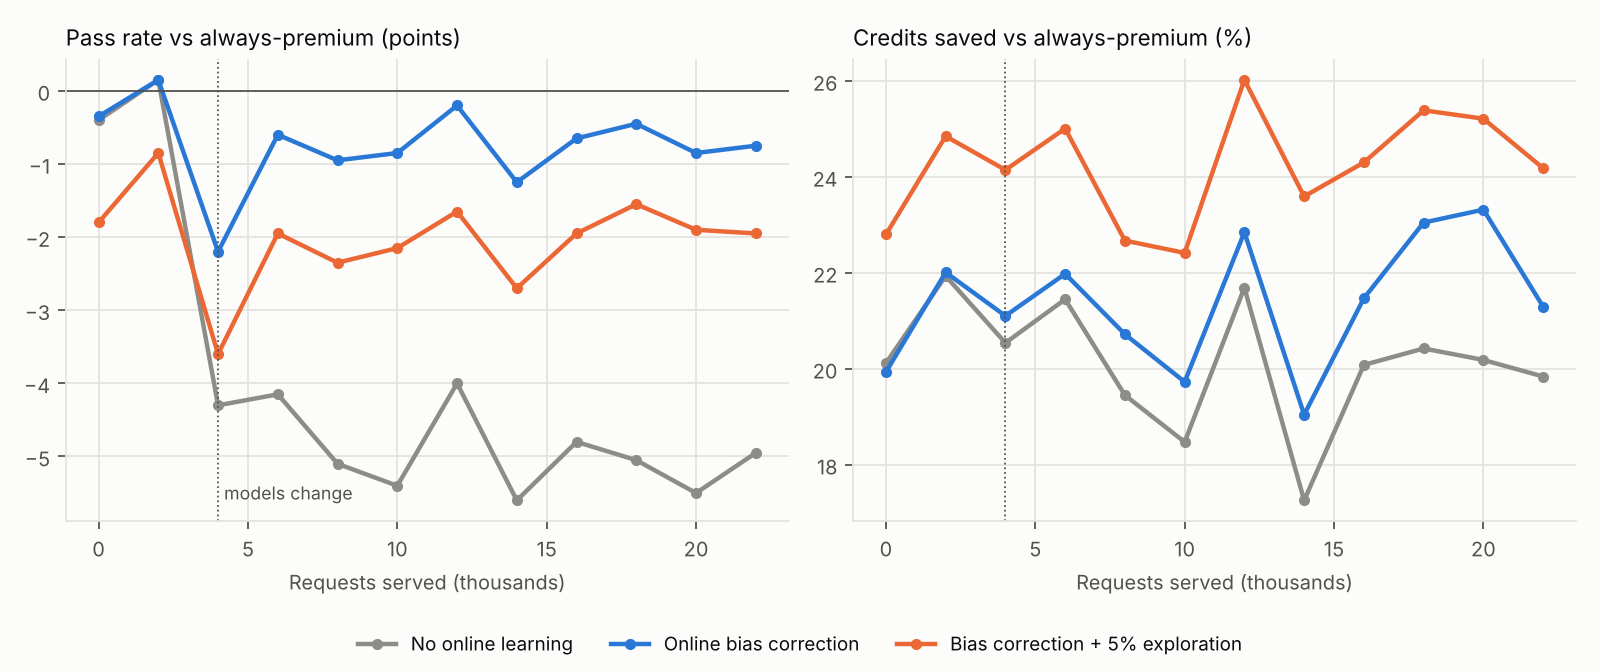
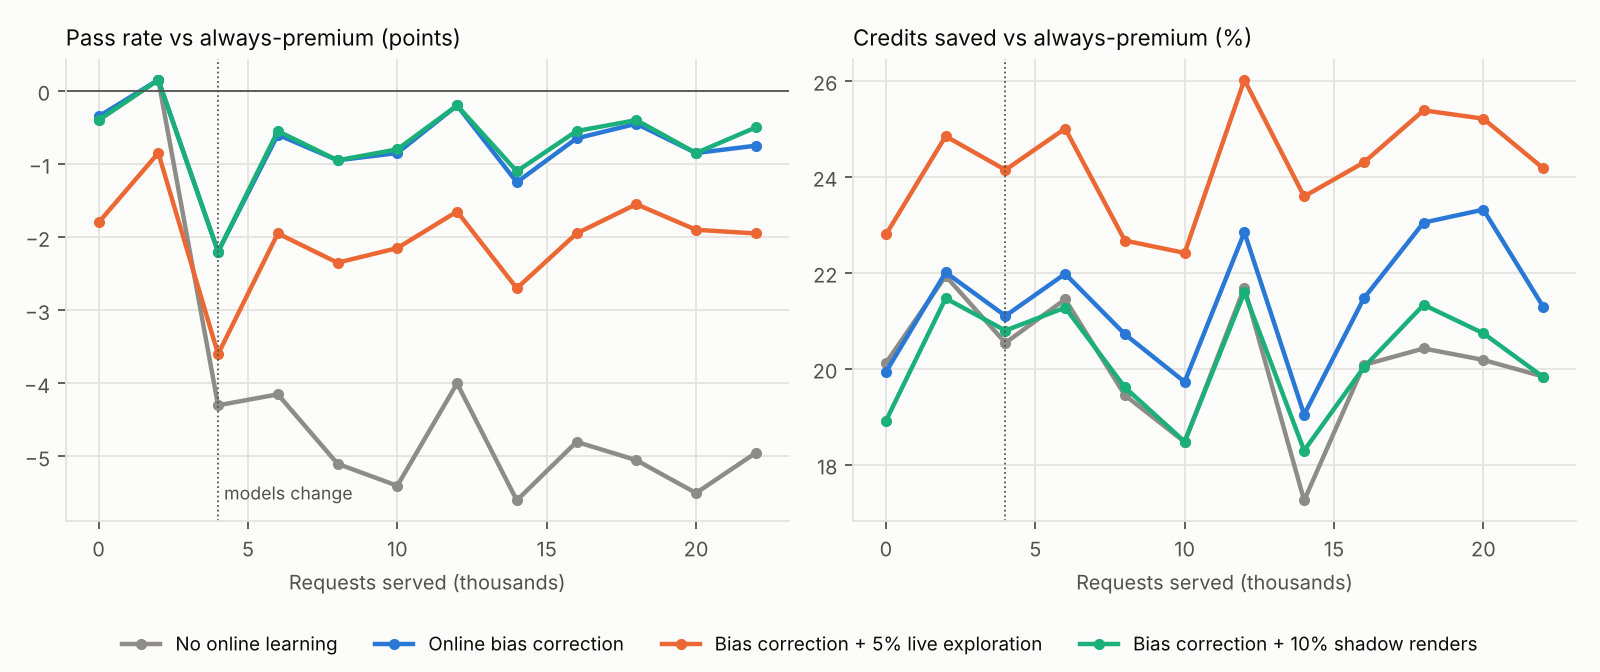
Add shadow exploration
With ROUTER_SHADOW_RATE set, a fraction of /v1/route responses name a
cheaper shadow model for the client to render on the side; the customer
always gets the router's pick. Shadow outcomes go through /v1/feedback
with shadow=true, update the online bias, and are exported for retraining
with their own propensity. Feedback is now keyed by (decision, model);
schema.sql migrates older databases under an advisory lock.

Drift replay: same quality as bias correction alone (-0.8 pts vs -0.9),
no quality cost from exploring, and the improved cheap model reached 16%
of traffic vs 8% with live exploration. Shadow renders cost 17.5 credits
per request, which the upgrade had not yet paid back in this run.

diff --git a/router/service.py b/router/service.py
@@ -43,6 +43,9 @@ CFG = {
     "tau_file": os.environ.get("ROUTER_TAU_FILE", "models/tau.json"),
     "epsilon": float(os.environ.get("ROUTER_EPSILON", "0")),
     "explore": os.environ.get("ROUTER_EXPLORE", "cheaper"),  # cheaper | uniform
+    # shadow exploration: ask the client to also render a cheaper model on this fraction of requests.
+    # The customer always gets the router's pick; the shadow render only feeds the router's learning.
+    "shadow_rate": float(os.environ.get("ROUTER_SHADOW_RATE", "0")),
     "online_bias": os.environ.get("ROUTER_ONLINE_BIAS", "1") == "1",
     "bias_lr": float(os.environ.get("ROUTER_BIAS_LR", "0.02")),
     "cost_alpha": float(os.environ.get("ROUTER_COST_ALPHA", "0.1")),
@@ -73,7 +76,8 @@ class FeedbackIn(BaseModel):
     decision_id: uuid.UUID
     passed: bool
     credits_charged: float | None = None
-    model: str | None = None  # defaults to the routed model
+    model: str | None = None  # defaults to the routed model; set it to report a shadow render
+    shadow: bool = False
 
 
 class State:
@@ -159,7 +163,8 @@ async def refresh_tables():
 async def decision_writer():
     """Batch decision rows into one multi-row INSERT per ~20 ms instead of one transaction per request."""
     sql = ("INSERT INTO decisions (id, tenant, model_version, request, chosen, p_pass, est_credits, propensity, "
-           "explored, reason, scores) VALUES (%s,%s,%s,%s,%s,%s,%s,%s,%s,%s,%s) ON CONFLICT DO NOTHING")
+           "explored, reason, scores, shadow_model, shadow_propensity) VALUES (%s,%s,%s,%s,%s,%s,%s,%s,%s,%s,%s,%s,%s) "
+           "ON CONFLICT DO NOTHING")
     while True:
         rows = [await S.log_q.get()]
         await asyncio.sleep(0.02)
@@ -181,7 +186,9 @@ async def lifespan(app: FastAPI):
     S.pg = AsyncConnectionPool(CFG["pg"], min_size=2, max_size=8, open=False)
     await S.pg.open()
     async with S.pg.connection() as c:
-        await c.execute(open(os.path.join(os.path.dirname(__file__), "schema.sql")).read())
+        async with c.transaction():  # workers start together; serialise the DDL
+            await c.execute("SELECT pg_advisory_xact_lock(7231)")
+            await c.execute(open(os.path.join(os.path.dirname(__file__), "schema.sql")).read())
     S.r = aioredis.from_url(CFG["redis"])
     net, version, tau = await load_active_model()
     S.tau = tau
@@ -260,21 +267,30 @@ async def route(body: RouteIn) -> dict:
                 if m.name != c.model:
                     chosen = type(c)(m.name, p, cr, "explore")
                     explored, propensity = True, eps / k
+    shadow, shadow_prop = None, None
+    if CFG["shadow_rate"] > 0 and not explored:
+        pool = [x for x in cands if x[2] < chosen.credits]
+        if pool and random.random() < CFG["shadow_rate"]:
+            m, p, cr = random.choice(pool)
+            shadow = {"model": m.name, "p_pass": round(p, 4), "est_credits": round(cr, 2)}
+            shadow_prop = CFG["shadow_rate"] / len(pool)
     did = uuid.uuid4()
     scores = {x[0].name: {"p": round(x[1], 5), "c": round(x[2], 3)} for x in cands}
     out = {
         "decision_id": str(did), "model": chosen.model, "p_pass": round(chosen.p_pass, 4),
         "est_credits": round(chosen.credits, 2), "reason": chosen.reason, "explored": explored,
         "escalate_to": escalate_to if not explored else prem.name if body.mode == "cascade" else None,
-        "model_version": version, "cache_hit": hit,
+        "model_version": version, "cache_hit": hit, "shadow": shadow,
         "alternatives": sorted(({"model": x[0].name, "p_pass": round(x[1], 4), "est_credits": round(x[2], 2)}
                                 for x in cands), key=lambda a: a["est_credits"]),
     }
     # remember what we predicted so /feedback can update online stats without touching Postgres
-    await S.r.set(f"{NS}:dec:{did}", json.dumps([chosen.model, chosen.p_pass, body.resolution, body.seconds]), ex=86400 * 3)
+    await S.r.set(f"{NS}:dec:{did}", json.dumps({"m": chosen.model, "p": {k: v["p"] for k, v in scores.items()},
+                                                 "res": body.resolution, "s": body.seconds}), ex=86400 * 3)
     if CFG["log_decisions"]:
         S.log_q.put_nowait((did, body.tenant, version, json.dumps(body.model_dump()), chosen.model, chosen.p_pass,
-                            chosen.credits, propensity, explored, chosen.reason, json.dumps(scores)))
+                            chosen.credits, propensity, explored, chosen.reason, json.dumps(scores),
+                            shadow and shadow["model"], shadow_prop))
     S.counters["route"] += 1
     S.counters["cache_hit"] += hit
     S.counters["explore"] += explored
@@ -295,11 +311,15 @@ async def feedback(fb: FeedbackIn):
     raw = await S.r.get(f"{NS}:dec:{fb.decision_id}")
     if raw is None:
         raise HTTPException(404, "unknown or expired decision_id")
-    model, p, res, secs = json.loads(raw)
-    model = fb.model or model
+    dec = json.loads(raw)
+    model = fb.model or dec["m"]
+    if model not in dec["p"]:
+        raise HTTPException(422, f"{model} was not eligible for this decision")
+    p, res, secs = dec["p"][model], dec["res"], dec["s"]
     async with S.pg.connection() as c:
-        cur = await c.execute("INSERT INTO feedback (decision_id, model, passed, credits_charged) VALUES (%s,%s,%s,%s) "
-                              "ON CONFLICT DO NOTHING", (fb.decision_id, model, fb.passed, fb.credits_charged))
+        cur = await c.execute("INSERT INTO feedback (decision_id, model, passed, credits_charged, shadow) "
+                              "VALUES (%s,%s,%s,%s,%s) ON CONFLICT DO NOTHING",
+                              (fb.decision_id, model, fb.passed, fb.credits_charged, fb.shadow))
         first = cur.rowcount == 1
     if first:  # idempotent: a retried feedback call does not double-update online state
         y = 1.0 if fb.passed else 0.0

diff --git a/bench/drift.py b/bench/drift.py
@@ -72,9 +72,17 @@ async def run(url, arm, n, drift_at, retrain_at, conc, seed, window):
                 spec = BY_NAME[m]
                 charged = spec.credits(req.resolution, req.seconds) * TRUE_COST.get(m, 1.0)
                 await c.post("/v1/feedback", json={"decision_id": d["decision_id"], "passed": bool(ok), "credits_charged": charged})
+                shadow_charged = 0.0
+                if d.get("shadow"):  # extra render for learning only; the customer still gets `m`
+                    sm = d["shadow"]["model"]
+                    sok = judge(quality(sm, demand, diff, noise, drift), np.random.default_rng(s))[req.quality]
+                    shadow_charged = BY_NAME[sm].credits(req.resolution, req.seconds) * TRUE_COST.get(sm, 1.0)
+                    await c.post("/v1/feedback", json={"decision_id": d["decision_id"], "passed": bool(sok), "model": sm,
+                                                       "shadow": True, "credits_charged": shadow_charged})
                 prem = premium_default(req.task, req.eligible(), req.resolution, req.seconds)
                 pok = judge(quality(prem.name, demand, diff, noise, drift), np.random.default_rng(s))[req.quality]
-                results[i] = {"i": i, "model": m, "ok": ok, "credits": charged, "explored": d["explored"],
+                results[i] = {"i": i, "model": m, "ok": ok, "credits": charged + shadow_charged, "shadow_credits": shadow_charged,
+                              "explored": d["explored"],
                               "version": d["model_version"], "prem_ok": pok,
                               "prem_credits": prem.credits(req.resolution, req.seconds),
                               "regressed": m == "gpt-image-2", "upgraded": m == "flux-schnell", "repriced": m == "kling-3.0"}
@@ -96,6 +104,7 @@ async def run(url, arm, n, drift_at, retrain_at, conc, seed, window):
                      "prem_pass": float(np.mean([r["prem_ok"] for r in chunk])),
                      "credits_per_req": float(np.mean([r["credits"] for r in chunk])),
                      "prem_credits_per_req": float(np.mean([r["prem_credits"] for r in chunk])),
+                     "shadow_credits_per_req": float(np.mean([r["shadow_credits"] for r in chunk])),
                      "regressed_share": float(np.mean([r["regressed"] for r in chunk])),
                      "upgraded_share": float(np.mean([r["upgraded"] for r in chunk])),
                      "repriced_share": float(np.mean([r["repriced"] for r in chunk])),

diff --git a/tests/test_service.py b/tests/test_service.py
@@ -67,3 +67,19 @@ def test_feedback_is_idempotent_and_moves_bias(client):
 
 def test_unknown_feedback_404(client):
     assert client.post("/v1/feedback", json={"decision_id": str(uuid.uuid4()), "passed": True}).status_code == 404
+
+
+def test_shadow_feedback_is_recorded_separately(client):
+    d = client.post("/v1/route", json=dict(BODY, prompt="a glass chess set, macro shot", quality="premium")).json()
+    cheaper = [a["model"] for a in d["alternatives"] if a["est_credits"] < d["est_credits"]]
+    assert cheaper, "premium-bar request should have cheaper alternatives"
+    a = client.post("/v1/feedback", json={"decision_id": d["decision_id"], "passed": True}).json()
+    b = client.post("/v1/feedback", json={"decision_id": d["decision_id"], "passed": False,
+                                          "model": cheaper[0], "shadow": True}).json()
+    assert a["applied"] and b["applied"]
+
+
+def test_feedback_for_ineligible_model_is_rejected(client):
+    d = client.post("/v1/route", json=dict(BODY, resolution="640px")).json()
+    r = client.post("/v1/feedback", json={"decision_id": d["decision_id"], "passed": True, "model": "nano-banana-pro"})
+    assert r.status_code == 422

diff --git a/bench/plot.py b/bench/plot.py
@@ -50,7 +50,8 @@ def frontier(rep, out):
 
 def drift(runs, out):
     labels = {"static": ("No online learning", MUTED), "bias": ("Online bias correction", S1),
-              "bias_explore_retrain": ("Bias correction + 5% exploration", S2)}
+              "bias_explore_retrain": ("Bias correction + 5% live exploration", S2),
+              "bias_shadow": ("Bias correction + 10% shadow renders", S3)}
     fig, axes = plt.subplots(1, 2, figsize=(10, 4.2), dpi=160, facecolor=SURF)
     for ax in axes:
         style(ax)
@@ -69,7 +70,7 @@ def drift(runs, out):
     axes[0].set_title("Pass rate vs always-premium (points)", color=INK, fontsize=10, loc="left")
     axes[1].set_title("Credits saved vs always-premium (%)", color=INK, fontsize=10, loc="left")
     h, l = axes[0].get_legend_handles_labels()
-    fig.legend(h, l, frameon=False, fontsize=8.5, labelcolor=INK, loc="lower center", ncol=3)
+    fig.legend(h, l, frameon=False, fontsize=8.5, labelcolor=INK, loc="lower center", ncol=4)
     fig.tight_layout(rect=(0, 0.08, 1, 1))
     fig.savefig(out, facecolor=SURF)
 

diff --git a/router/retrain.py b/router/retrain.py
@@ -33,11 +33,12 @@ BAR_IX = {"draft": 0, "standard": 1, "premium": 2}
 
 
 def export_feedback(conn) -> list[dict]:
-    q = ("SELECT d.id, d.request, f.model, f.passed, d.propensity FROM feedback f "
-         "JOIN decisions d ON d.id = f.decision_id ORDER BY f.received_at")
+    q = ("SELECT d.id, d.request, f.model, f.passed, CASE WHEN f.shadow THEN d.shadow_propensity ELSE d.propensity END "
+         "FROM feedback f JOIN decisions d ON d.id = f.decision_id ORDER BY f.received_at")
     rows = []
     for did, req, model, passed, prop in conn.execute(q):
-        rows.append({"id": f"fb-{did}", "req": req, "weight": float(min(20.0, 1.0 / max(prop, 1e-6))),
+        prop = prop or 1.0
+        rows.append({"id": f"fb-{did}-{model}", "req": req, "weight": float(min(20.0, 1.0 / max(prop, 1e-6))),
                      "outcomes": {model: [{req["quality"]: int(passed)}]}})
     return rows
 

diff --git a/bench/ope.py b/bench/ope.py
@@ -73,7 +73,7 @@ def load_logs():
         truth[t["id"]] = t
     with psycopg.connect(PG) as c:
         rows = c.execute("SELECT d.id::text, d.request, d.chosen, d.propensity, d.scores, f.passed FROM decisions d "
-                         "JOIN feedback f ON f.decision_id = d.id WHERE d.tenant = %s", (TENANT,)).fetchall()
+                         "JOIN feedback f ON f.decision_id = d.id AND NOT f.shadow WHERE d.tenant = %s", (TENANT,)).fetchall()
     return [r for r in rows if r[0] in truth], truth
 
 
